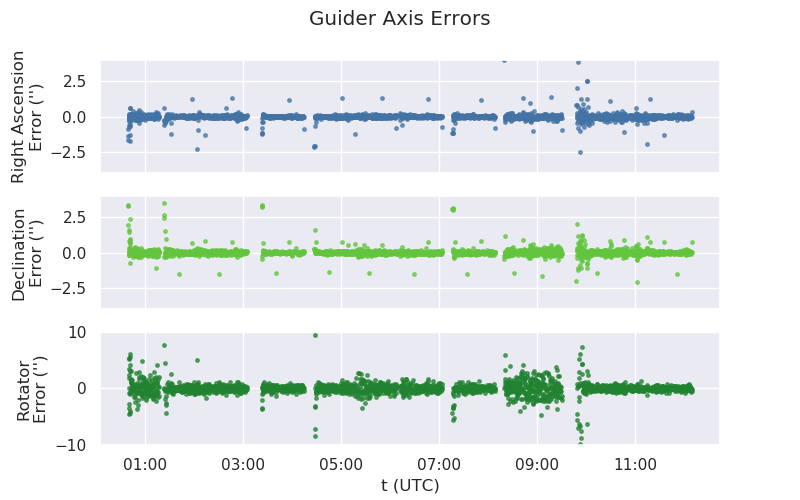
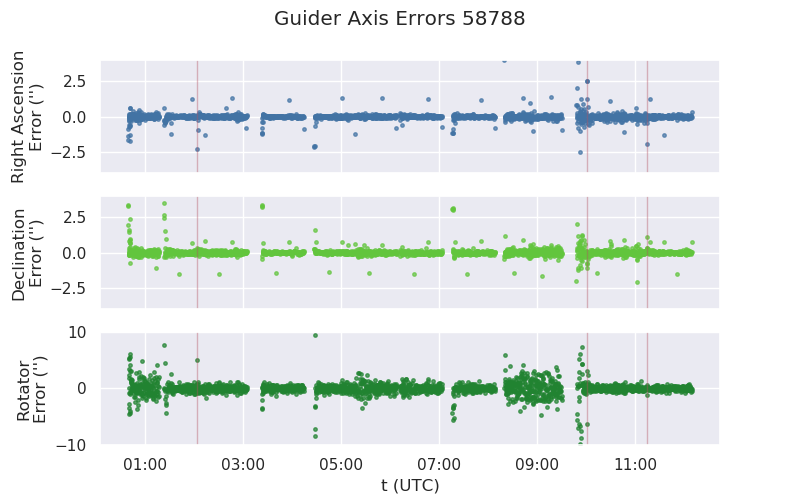
Fixed plots from 58788 and removed inconsistent plots. Added mjd to plotting function

Changed region(s): [[0.3438, 0.0, 0.6562, 0.06]]

diff --git a/guider_issues/guider_plotting.py b/guider_issues/guider_plotting.py
@@ -81,7 +81,7 @@ def main():
         rotax.axvline(lurch_time.plot_date, alpha=0.4, c=(0.700, 0.322, 0.386),
                       linewidth=1)
 
-    fig.suptitle('Guider Axis Errors')
+    fig.suptitle('Guider Axis Errors {}'.format(date))
     print(date_dir / 'guider_plot.png')
     fig.savefig(str(date_dir / 'guider_plot.png'))
 
